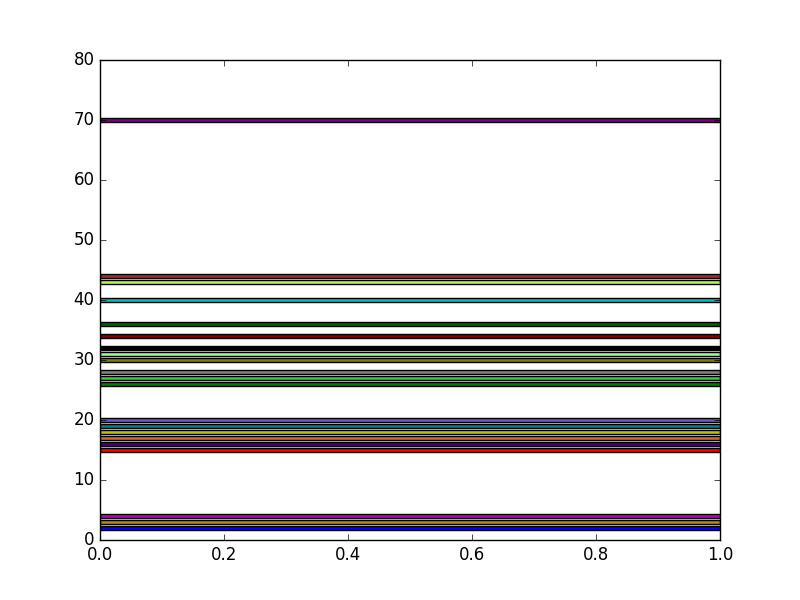
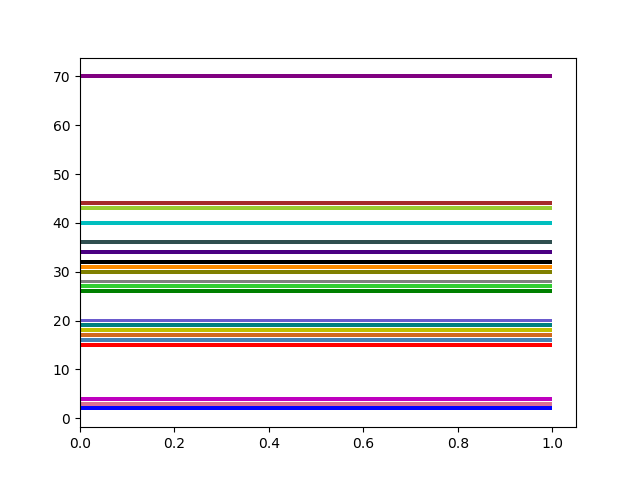
Improvements in importing combining and plotting
Function import_set added to import and synchronize a MS file with all .mpt files sharing in one line. Function synchronize updated accordingly. Function plot_experiment updated to allow for blank upper panel. There were a number of other small changes too. I can't seem to do anything without making small improvements all over this package.

diff --git a/Data_Importing.py b/Data_Importing.py
@@ -23,6 +23,15 @@ import codecs
 from copy  import deepcopy #necessary?
 import numpy as np
 
+if os.path.split(os.getcwd())[1] == 'EC_MS':      
+                                #then we're running from inside the package
+    from Combining import synchronize, sort_time
+else:                           #then we use relative import
+    from .Combining import synchronize, sort_time
+
+
+
+
 def import_text(full_path_name='current', verbose=1):   
     '''
     This method will import the full text of a file selected by user input as a 
@@ -325,6 +334,32 @@ def import_data(full_path_name='current', title='get_from_file',
     DataDict = numerize(DataDict)
 
     return DataDict
+
+
+def import_set(directory, MS_file='QMS.txt', EC_file=None, tag='01', verbose=True): 
+    if verbose:
+        print('\n\nfunction import_set at your service!\n')
+    
+    lslist = os.listdir(directory)
+    
+    if type(MS_file) is str:
+        MS_file = [MS_file]
+    MS_datas = [import_data(directory + os.sep + f, data_type='MS', verbose=verbose) for f in MS_file]
+    MS_data = synchronize(MS_datas, verbose=verbose)
+    
+    if EC_file is None:
+        EC_file = [f for f in lslist if f[:2] == tag and f[-4:] == '.mpt']
+    elif type(EC_file) is str:
+        EC_file = [EC_file]
+    EC_datas = [import_data(directory + os.sep + f, verbose=verbose) for f in EC_file]
+    EC_data = synchronize(EC_datas, verbose=verbose)
+    if 'loop number' in EC_data['data_cols']:
+        EC_data = sort_time(EC_data, verbose=verbose)
+        
+    data = synchronize([MS_data, EC_data], t_zero='start', verbose=verbose)
+    if verbose:
+         print('\nfunction import_set finished!\n\n')       
+    return data
 
 
 def import_folder(directory, verbose=1):

diff --git a/Molecules.py b/Molecules.py
@@ -160,6 +160,16 @@ class Molecule:
         else: 
             file.writelines(newlines)
         
+    def p_vap(self, T=None):
+        if T is None:
+            if 'T' in dir(self) and self.T is not None:
+                T = self.T
+            else:
+                T = 298.15
+        elif 'T' not in dir(self) or self.T is None:
+            self.T = T
+        return Chem.p_vap(self.name, T)
+        
     
     def reset(self, verbose=True):
         '''
@@ -435,7 +445,24 @@ class Molecule:
             ax.set_xlabel('amount produced / nmol')
             ax.set_ylabel('int. signal / nC')
         return F_cal
-   
+    
+    def mass_transfer_coefficient(self, system='chip', T=298.15,
+                                  phi=0.5, l_p=100e-6, d_p=20e-9, 
+                                  p_chip=1e5, n_dot_0=2.6e-9, A=0.196e-4,
+                                  verbose=True):
+        K_H = self.kH * Chem.R * T
+        self.K_H = K_H
+        if verbose:
+            print('K_H = ' + str(K_H*1e-2) + ' bar/mol')
+        if system == 'chip':
+            self.h = K_H * n_dot_0 / (p_chip * A)
+        else:
+            self.h = K_H * phi * d_p / (3 * l_p) \
+                     * np.sqrt(8 / (np.pi * Chem.R * T * self.M*1e-3))
+        if verbose:
+            print('h = ' + str(self.h) + ' m/s')
+        return self.h   
+
     def set_temperature(self, T):
         self.T = T
         print('The set_temperature function is not implemented yet.')

diff --git a/EC.py b/EC.py
@@ -422,11 +422,14 @@ def sync_metadata(EC_data, RE_vs_RHE=None, A_el=None, verbose=True):
         print('data doesn\'t include Ewe!')  
         E_str = None
         V_str = None
-    if RE_vs_RHE is None:
-        V_str = E_str
-    elif E_str is not None:
-        V_str = 'U vs RHE / [V]' #changed from E to U 17E21
-        EC_data[V_str] = EC_data[E_str] + RE_vs_RHE
+    if 'V_str' in EC_data.keys(): #added 17J12
+        V_str = EC_data['V_str']
+    else:
+        if RE_vs_RHE is None:
+            V_str = E_str
+        elif E_str is not None:
+            V_str = 'U vs RHE / [V]' #changed from E to U 17E21
+            EC_data[V_str] = EC_data[E_str] + RE_vs_RHE
     
     if A_el is not None:
         EC_data['A_el'] = A_el
@@ -441,11 +444,14 @@ def sync_metadata(EC_data, RE_vs_RHE=None, A_el=None, verbose=True):
         print('data doesn\'t include I!')
         I_str = None
         J_str = None
-    if A_el is None:
-        J_str = I_str
-    elif I_str is not None:
-        J_str = 'J /[mA/cm^2]'
-        EC_data[J_str] = EC_data[I_str] / A_el
+    if 'J_str' in EC_data.keys(): #added 17J12
+        J_str = EC_data['J_str']
+    else:
+        if A_el is None:
+            J_str = I_str
+        elif I_str is not None:
+            J_str = 'J /[mA/cm^2]'
+            EC_data[J_str] = EC_data[I_str] / A_el
 
     EC_data['E_str'] = E_str 
     EC_data['V_str'] = V_str   

diff --git a/preferences/colors.py b/preferences/colors.py
@@ -15,10 +15,10 @@ colorlist = list(colors.cnames.items())
 
 
 ourcolors_0 = {'M2':'b','M4':'m', 'M18':'y', 'M28':'0.5', 'M32':'k', 'M40':'c', 'M44':'brown', #H2, He, and air 
-             'M15':'r', 'M26':'g', 'M27':'limegreen', 'M30':'olive', 'M31':'palegreen', 'M43':'greenyellow', #hydrocarbons
-             'M34':'darkred', 'M36':'darkgreen', 'M16':'indigo', #O isotopes
+             'M15':'r', 'M26':'g', 'M27':'limegreen', 'M30':'olive', 'M31':'darkorange', 'M43':'yellowgreen', #hydrocarbons
+             'M34':'indigo', 'M36':'darkslategray', 'M16':'steelblue', #O isotopes
              'M20':'slateblue', 'M19':'teal', 'M17':'chocolate', # O isotopes continued
-             'M70':'purple', 'M3':'darkgoldenrod' #exotic stuff
+             'M70':'purple', 'M3':'palevioletred' #exotic stuff
              }  
 
 
@@ -43,7 +43,7 @@ if __name__ == '__main__':
         print(mass + ' : ' + color)
         m = int(mass[1:])
         ax1.barh(m, 1, align='center', color=color)
-        rgb = ColorConverter.to_rgb(ColorConverter, color) #why do I have to do this?
+        rgb = ColorConverter.to_rgb(color) #why do I have to do this?
         html = colors.rgb2hex(rgb)
         ourcolors[mass] = (color, rgb, html)
         rgb = [np.round(a,3) for a in rgb]

diff --git a/Combining.py b/Combining.py
@@ -226,6 +226,7 @@ def synchronize(Dataset_List, t_zero='start', append=None, cutit=0,
     
     return Combined_Data        
 
+
     
 def cut(x, y, tspan=None, returnindeces=False, override=False):
     if tspan is None:
@@ -471,7 +472,7 @@ def sort_time(dataset_0, data_type='EC', verbose=False):
         if verbose:
             print('\nfunction \'sort_time\' finished!\n\n')    
         
-        return dataset, sort_indeces 
+        return dataset#, sort_indeces  #sort indeces are useless, 17J11
     #if I need to read the return for normal use, then I don't want sort_indeces
     
     

diff --git a/Quantification.py b/Quantification.py
@@ -312,6 +312,21 @@ def recalibrate(quantmol = {'H2':'M2', 'He':'M4', 'CH4':'M15', 'H2O':'M18',
     return mdict, ax
 
 
+def line_through_zero(x,y):
+    '''
+    This returns a minimizing the square error of y = a * x
+    '''
+    a_i = np.mean(y/x)
+    pars_i = [a_i]    
+
+    def ax(x, a):
+        return a*x
+
+    pars, pcov = curve_fit(ax, x, y, p0=pars_i)
+#    pars = [tau, y0, y1]
+    a = pars[0]
+    return a
+
 
 def get_signal(MS_data, mass, tspan='tspan_2', removebackground=False, 
              unit='A', verbose=True):

diff --git a/Electrolytes.py b/Electrolytes.py
@@ -279,7 +279,8 @@ class Electrolyte:
    #         print(ion)
             charge = read_charge(ion)
             if charge != 0:
-                self.kap[ion] = conc * Chem.Far * np.abs(charge) * electrolyte_dict['mobility'][ion]
+                self.kap[ion] = conc * 1e3 * Chem.Far * np.abs(charge) * electrolyte_dict['mobility'][ion]
+                #units: mol/l * l/m^3 * C/mol * m^2/(V*s) = A/(V*m) = S/m 
                 self.kappa += self.kap[ion]
         return self.kappa
     

diff --git a/Plotting.py b/Plotting.py
@@ -487,6 +487,8 @@ def plot_experiment(EC_and_MS,
         ax[0].set_xlabel('')
         ax[0].xaxis.tick_top()  
     
+    ax[0].set_xlim(tspan)
+    
     if title is not None:
             plt.title(title)
     
@@ -536,6 +538,7 @@ def plot_experiment(EC_and_MS,
         
     if plotcurrent or plotpotential:
         ax[1].set_xlabel('time / [s]')
+        ax[1].set_xlim(tspan)
     
     if saveit:
         if title == 'default':
